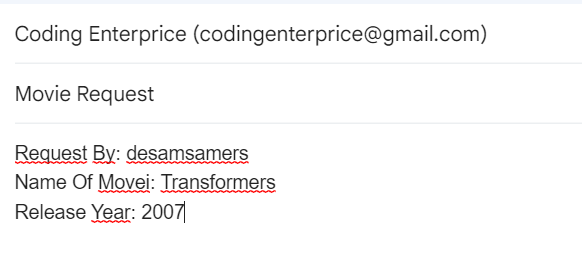
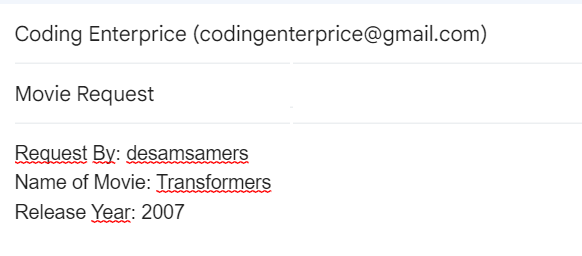
2023.2.1

Changed region(s): [[0.1237, 0.6562, 0.4948, 0.7812]]

diff --git a/requestmovie.html b/requestmovie.html
@@ -27,7 +27,7 @@
     <main>
         <p>You can Request Movies by e-mailing codingenterprice@gmail.com in the following format</p>
         <p> 
-            Subject:     <br>
+            Subject: Movie Request <br>
 
             Request By: <br>
             Name of Movie: <br>
